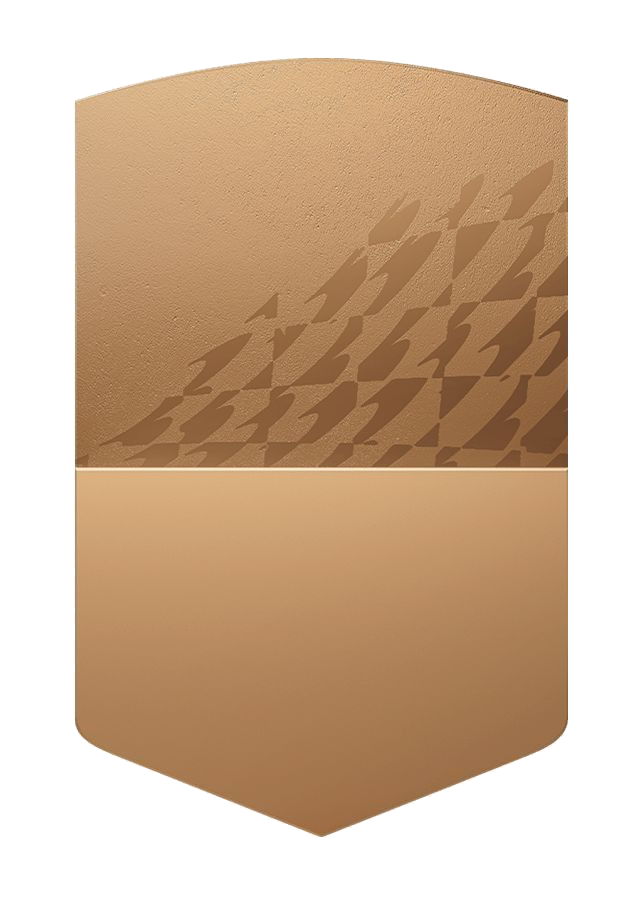
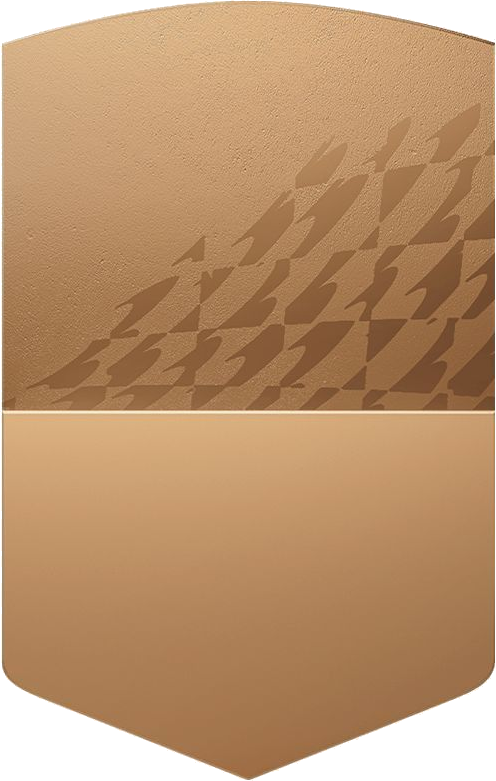
Auto-crop card images to bounds, remove grey box artifact, import Oswald font, pixel-perfect alignment

diff --git a/src/index.css b/src/index.css
@@ -312,16 +312,11 @@ h1, h2, h3, h4, h5, h6 {
   position: relative;
   width: 100%;
   aspect-ratio: 2.5 / 3.5;
-  border-radius: 12px;
-  overflow: hidden;
-  box-shadow: 0 10px 30px rgba(0, 0, 0, 0.7);
   display: flex;
   flex-direction: column;
   transition: transform 0.3s;
-  background-size: 100% 100%;
-  background-position: center;
-  background-repeat: no-repeat;
   background-color: transparent;
+  filter: drop-shadow(0 10px 15px rgba(0, 0, 0, 0.6));
 }
 
 .fifa-card:hover {
@@ -339,8 +334,8 @@ h1, h2, h3, h4, h5, h6 {
 
 .fifa-card-top-left {
   position: absolute;
-  top: 10%;
-  left: 12%;
+  top: 15%;
+  left: 15%;
   display: flex;
   flex-direction: column;
   align-items: center;
@@ -348,95 +343,96 @@ h1, h2, h3, h4, h5, h6 {
 }
 
 .fifa-card-ovr-new {
-  font-size: clamp(1.5rem, 5vw, 2.2rem);
+  font-size: clamp(1.5rem, 6vw, 2.5rem);
   font-weight: 900;
   line-height: 1;
 }
 
 .fifa-card-pos-new {
-  font-size: clamp(0.7rem, 2.5vw, 0.9rem);
+  font-size: clamp(0.7rem, 2.8vw, 1rem);
   font-weight: bold;
   margin-top: 2px;
   margin-bottom: 5px;
 }
 
 .fifa-card-flag {
-  width: 25px;
+  width: 28px;
   height: auto;
   box-shadow: 0 2px 4px rgba(0,0,0,0.3);
 }
 
 .fifa-card-image-new {
   position: absolute;
-  top: 15%;
-  width: 100%;
-  height: 45%;
+  top: 18%;
+  left: 20%;
+  width: 70%;
+  height: 40%;
   display: flex;
   justify-content: center;
   align-items: flex-end;
 }
 
 .fifa-card-image-new img {
-  max-width: 70%;
+  max-width: 100%;
   max-height: 100%;
   object-fit: contain;
   filter: drop-shadow(0 10px 10px rgba(0,0,0,0.4));
-  margin-left: 10%;
 }
 
 .fifa-card-bottom-new {
   position: absolute;
-  bottom: 0;
+  bottom: 5%;
   width: 100%;
-  height: 40%;
+  height: 38%;
   display: flex;
   flex-direction: column;
   align-items: center;
   justify-content: flex-start;
-  padding: 0 5%;
+  padding: 0 10%;
   font-family: var(--font-heading);
 }
 
 .fifa-card-name-new {
-  font-size: clamp(0.9rem, 3.5vw, 1.3rem);
+  font-size: clamp(0.9rem, 4vw, 1.4rem);
   font-weight: 900;
   text-transform: uppercase;
-  width: 90%;
+  width: 100%;
   text-align: center;
-  margin-bottom: 2%;
+  margin-bottom: 4%;
   border-bottom: 1px solid rgba(0,0,0,0.2);
   padding-bottom: 2%;
   white-space: nowrap;
   overflow: hidden;
   text-overflow: ellipsis;
+  letter-spacing: 1px;
 }
 
 .fifa-card-stats-grid {
   display: flex;
   justify-content: center;
-  width: 90%;
-  font-size: clamp(0.7rem, 2.5vw, 0.95rem);
+  width: 100%;
+  font-size: clamp(0.7rem, 3.2vw, 1.1rem);
   font-weight: 700;
-  line-height: 1.2;
+  line-height: 1.3;
 }
 
 .stat-col {
   display: flex;
   flex-direction: column;
-  gap: 2px;
   flex: 1;
 }
 
 .stat-row {
   display: flex;
-  justify-content: space-between;
-  padding: 0 5%;
+  justify-content: center;
+  gap: 6px;
 }
 
 .stat-divider {
   width: 1px;
   margin: 0 4%;
   opacity: 0.3;
+  background-color: currentColor;
 }
 
 /* Sidebar and Layout */

diff --git a/index.html b/index.html
@@ -12,7 +12,9 @@
       window.addEventListener('unhandledrejection', function(event) {
         document.body.innerHTML += '<div style="position:fixed;top:0;left:0;width:100%;background:red;color:white;padding:20px;z-index:999999;font-size:20px;font-weight:bold;font-family:sans-serif;">PROMISE ERROR: ' + (event.reason && event.reason.message ? event.reason.message : event.reason) + '</div>';
       });
-    </script>
+    <link rel="preconnect" href="https://fonts.googleapis.com">
+    <link rel="preconnect" href="https://fonts.gstatic.com" crossorigin>
+    <link href="https://fonts.googleapis.com/css2?family=Oswald:wght@400;700;900&family=Roboto:wght@400;700&display=swap" rel="stylesheet">
   </head>
   <body>
     <div id="root"></div>
